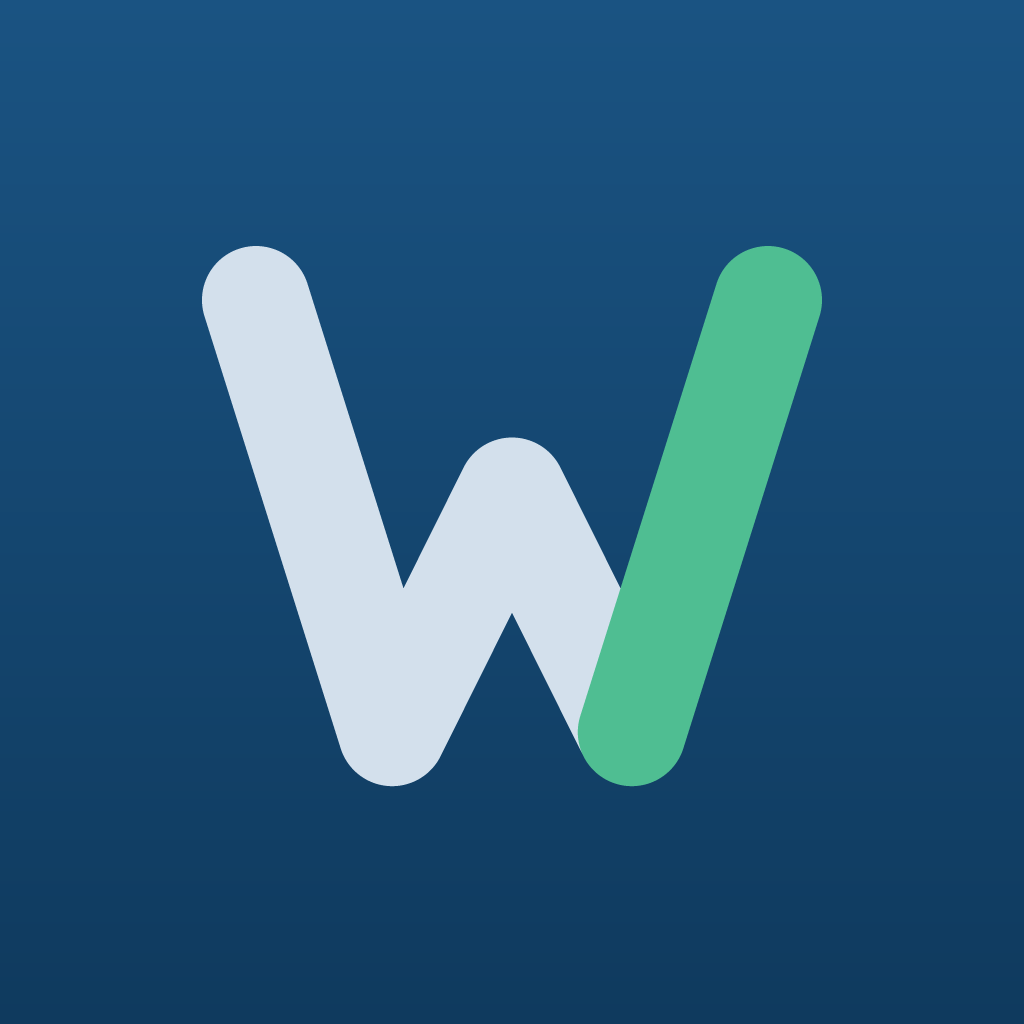
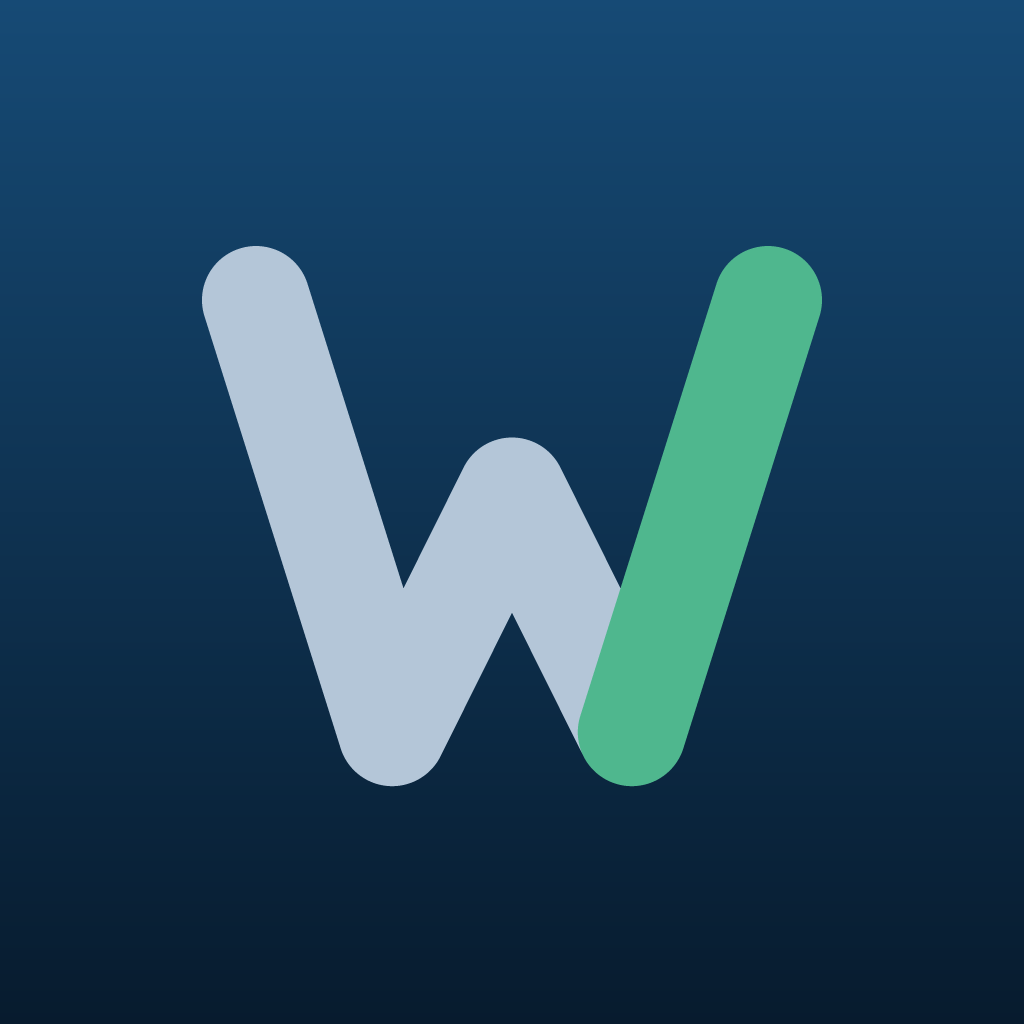
アプリの色をMitsubaトークン正本v3に合わせる
なぜ：地色をブランドUI/UXに寄せたいというCEO要望。合わせて確認したところ、
骨子が本日v3に改訂され、ブランド紺が #14456E→#0E3252、緑が #1F7A5A→#1A6B50
に深化していた。ここだけ旧色のまま残すと、他のMitsuba成果物と別物になる。

- 明暗2つの:rootブロックを正本v3の値に差し替え。値は正本からのコピーで、
  ここでは独自調整しない（正本が動いたらこの2ブロックだけ直す）
- 主要ボタンとタブの選択状態がブランド紺に（旧値は #111827 のほぼ黒で、
  ブランド色がどこにも出ていなかった）。正本の「紺＝構造」の役割どおり
- 補助文字 --soft が地に対し約3.2:1しかなく本文基準4.5を割っていたため、
  正本の補助色に統一。案Bの静けさは色でなく文字の大小で保つ
- 意味の色を正本へ：チェックの色＝ブランド緑、待ち＝琥珀、Task＝青、
  局面＝スレート（紫は正本の palette に無いため）。土日・危険・注意も同様
- 上部バーは紺のグラデーション（正本 --hdr-a/--hdr-b）に。明暗で同じ
- アイコン・起動画面・ステータスバーも v3 の紺へ。線は地が深くなった分だけ
  落とし、CEO指示の「約7:1」を維持（#D3E0EC→#B4C6D8）

表示層のみ。データ・同期・PII境界・AI送信境界は無変更。テスト4本全緑・SW v46。
角丸（正本は8/6/6で丸ピル廃止）は別途。

diff --git a/index.html b/index.html
@@ -4,7 +4,7 @@
 <meta charset="UTF-8">
 <meta http-equiv="Content-Security-Policy" content="default-src 'self'; script-src 'self' 'unsafe-inline' https://www.gstatic.com; style-src 'self' 'unsafe-inline'; img-src 'self' data: blob:; font-src 'self'; connect-src 'self' https://*.googleapis.com https://*.firebaseapp.com https://wardbook-ai.naganomitsutoshi.workers.dev; object-src 'none'; base-uri 'self'; form-action 'self'; manifest-src 'self'; worker-src 'self'">
 <meta name="viewport" content="width=device-width, initial-scale=1.0, viewport-fit=cover">
-<meta name="theme-color" content="#14456e">
+<meta name="theme-color" content="#0e3252">
 <meta name="apple-mobile-web-app-capable" content="yes">
 <meta name="apple-mobile-web-app-status-bar-style" content="default">
 <meta name="apple-mobile-web-app-title" content="Wardbook">
@@ -48,70 +48,80 @@
 .learnrpg .badge{background:#13233f;border:1px solid #33507f;color:#bcd2f5}
 .learnrpg .ghostbtn,.learnrpg .smallbtn{background:#15243f;border:1px solid #33507f;color:#dbe7ff}
 .learnrpg select.input{background:#0f1c33;color:#eaf2ff;border-color:#33507f}
+  /* 色は Mitsuba トークン正本 v3 (5_開発部/設計/Mitsuba_UI骨子.md, CEO 2026-07-29)
+     を Wardbook の変数名に写したもの。値は正本からのコピーで、ここで独自に
+     調整しない。正本が動いたらこの2ブロックだけを差し替える。
+     ブランド紺は「面積を絞る」＝上部バー・主要ボタン・タブの選択状態だけに置き、
+     画面の大部分は中立のスレートで持つ (正本 §2 面積の原則)。 */
   :root{
     color-scheme:light;
-    --bg:#f5f6f8;
+    --bg:#f4f6f8;
     --card:#ffffff;
-    --panel:#eef1f4;
-    --line:#d7dce2;
-    --text:#17202a;
-    --muted:#5f6b78;
-    --soft:#8a95a3;
-    --accent:#111827;
-    --danger:#b91c1c;
-    --danger-soft:#fee2e2;
-    --ok:#166534;
-    --ok-soft:#dcfce7;
-    --badge:#fff7ed;
-    --badge-line:#fdba74;
+    --panel:#eef2f6;              /* 正本 --th-bg：一段沈んだ面 */
+    --line:#d7dee6;
+    --text:#1f2933;               /* 正本 --ink */
+    --muted:#5b6875;
+    --soft:#5b6875;               /* 正本に --muted より薄い段はない＝同値 */
+    --accent:#0e3252;             /* 正本 --fill-brand：主要ボタン・選択タブだけ */
+    --danger:#c0392b;
+    --danger-soft:#fdecec;
+    --ok:#1a6b50;                 /* 正本 --ok＝ブランド緑（完了・正常＝現在地） */
+    --ok-soft:#e5f0ea;
+    --badge:#fdf6e3;              /* 正本 --warn-bg */
+    --badge-line:#b7791f;         /* 正本 --warn-line */
     --btn:#ffffff;
     --on-accent:#fff;
-    --bar:rgba(245,246,248,.96);
-    /* 画面上部だけ Mitsuba ネイビー (CEO 2026-07-29). 下の操作バー (--bar) は
-       主要ボタンが載るので中立のまま＝ブランド色は面積を絞る (UI骨子 §2). */
-    --topbar:#14456e;
+    --bar:rgba(244,246,248,.96);
+    /* 画面上部だけブランド紺のグラデーション (正本 --hdr-a / --hdr-b)。下の
+       操作バー (--bar) は主要ボタンが載るので中立のまま。 */
+    --hdr-a:#081f33;
+    --hdr-b:#0e3252;
     --topbar-ink:#eaf1f8;
     --topbar-line:rgba(255,255,255,.16);
     --topbar-btn:rgba(255,255,255,.12);
     --topbar-btn-line:rgba(255,255,255,.30);
     --drop:rgba(17,24,39,.14);
-    --shadow:0 1px 2px rgba(0,0,0,.06);
-    --weekend-sun:#b44a4a;
-    --weekend-sat:#4f6fb8;
-    --sec-phase:#6d28d9;
-    --sec-task:#1d4ed8;
-    --sec-pending:#b45309;
+    --shadow:0 1px 3px rgba(20,30,45,.10),0 1px 2px rgba(20,30,45,.06);
+    --weekend-sun:#c0392b;        /* 正本 --danger */
+    --weekend-sat:#2b6cb0;        /* 正本 --info */
+    --sec-phase:#33475b;          /* 正本 --ink-2：局面は信号でなく構造 */
+    --sec-task:#2b6cb0;           /* 正本 --info */
+    --sec-pending:#8a5b12;        /* 正本 --warn */
     --scrim:rgba(15,23,42,.45);
   }
   :root[data-theme="dark"]{
     color-scheme:dark;
-    --bg:#13161a;
-    --card:#1b2128;
-    --panel:#232b33;
-    --line:#354150;
-    --text:#edf2f7;
-    --muted:#b2bcc7;
-    --soft:#8e99a6;
-    --accent:#e5e7eb;
-    --danger-soft:#3a1f23;
-    --ok-soft:#173327;
-    --badge:#342516;
-    --badge-line:#855f38;
-    --btn:#232b33;
-    --on-accent:#13161a;
-    --bar:rgba(19,22,26,.96);
-    --topbar:#0b2c4a;
+    --bg:#0f161e;
+    --card:#18212b;
+    --panel:#1e2a36;              /* 正本 --th-bg（暗所） */
+    --line:#2e3c4b;
+    --text:#e8edf2;               /* 正本 --ink（暗所） */
+    --muted:#9db0c0;
+    --soft:#9db0c0;
+    --accent:#2c6faf;             /* 正本 --fill-brand（暗所）：白文字 5.25 */
+    --danger:#f08a80;
+    --danger-soft:#3a1f1c;
+    --ok:#4fb78e;                 /* 正本 --ok（暗所） */
+    --ok-soft:#0f2a22;
+    --badge:#33290f;              /* 正本 --warn-bg（暗所） */
+    --badge-line:#e3b24c;
+    --btn:#1e2a36;
+    --on-accent:#fff;
+    --bar:rgba(15,22,30,.96);
+    /* 上部バーは明暗どちらでも同じ紺グラデーション（正本§v3「ヘッダーは紺を維持」） */
+    --hdr-a:#081f33;
+    --hdr-b:#0e3252;
     --topbar-ink:#dbe7f2;
     --topbar-line:rgba(255,255,255,.12);
     --topbar-btn:rgba(255,255,255,.10);
     --topbar-btn-line:rgba(255,255,255,.26);
     --drop:rgba(237,242,247,.22);
-    --shadow:0 1px 2px rgba(0,0,0,.28);
-    --weekend-sun:#f09a9a;
-    --weekend-sat:#9db8ff;
-    --sec-phase:#c4b5fd;
-    --sec-task:#93c5fd;
-    --sec-pending:#fbbf6e;
+    --shadow:0 1px 3px rgba(0,0,0,.45);
+    --weekend-sun:#f08a80;        /* 正本 --danger（暗所） */
+    --weekend-sat:#7fb0d9;        /* 正本 --info（暗所） */
+    --sec-phase:#b7c6d4;          /* 正本 --ink-2（暗所） */
+    --sec-task:#7fb0d9;
+    --sec-pending:#e3b24c;
     --scrim:rgba(0,0,0,.6);
   }
   *{box-sizing:border-box}
@@ -127,7 +137,7 @@
   .app{max-width:720px;margin:0 auto;padding:0 0 88px}
   .topbar{
     position:sticky;top:0;z-index:20;
-    background:var(--topbar);
+    background:linear-gradient(90deg,var(--hdr-a),var(--hdr-b));
     color:var(--topbar-ink);
     border-bottom:1px solid var(--topbar-line);
     padding:10px 14px calc(10px + env(safe-area-inset-top));
@@ -3553,7 +3563,7 @@ function applyTheme(){
   var meta = typeof document !== "undefined" && document.querySelector ? document.querySelector('meta[name="theme-color"]') : null;
   // Status bar follows the topbar, not the page background (CEO 2026-07-29),
   // so the brand navy runs unbroken from the system bar into the app header.
-  if (meta && meta.setAttribute) meta.setAttribute("content", theme === "dark" ? "#0b2c4a" : "#14456e");
+  if (meta && meta.setAttribute) meta.setAttribute("content", "#0e3252");
 }
 
 function setThemeMode(mode){

diff --git a/tests/verify-wardbook.js b/tests/verify-wardbook.js
@@ -1573,10 +1573,10 @@ assert.strictEqual(normalized.seeds[0].createdOn, "2026-07-08");
       "no icon declared for purpose " + purpose
     );
   }
-  assert.strictEqual(manifest.theme_color, "#14456e", "theme color must stay Mitsuba navy");
+  assert.strictEqual(manifest.theme_color, "#0e3252", "theme color must stay Mitsuba navy");
   // The launch screen paints background_color before anything renders. White
   // there flashed against the navy icon (CEO 2026-07-29).
-  assert.strictEqual(manifest.background_color, "#14456e", "launch background must stay Mitsuba navy");
+  assert.strictEqual(manifest.background_color, "#0e3252", "launch background must stay Mitsuba navy");
   // The splash blows the icon up to about a third of the screen, so anything
   // smaller than 1024 shows its pixels on a modern phone.
   for (const purpose of ["any", "maskable"]) {

diff --git a/tests/smoke-render.js b/tests/smoke-render.js
@@ -834,9 +834,9 @@ if (documentElement["data-theme"] !== "dark") fail("dark theme attribute not app
 // The system bar must stay Mitsuba navy so it runs unbroken into the app
 // header (CEO 2026-07-29). If someone re-points it at the page background the
 // status bar goes grey again and the seam comes back.
-if (themeMeta.content !== "#0b2c4a") fail("dark status bar must be Mitsuba deep navy");
+if (themeMeta.content !== "#0e3252") fail("dark status bar must be Mitsuba navy");
 vm.runInContext("setThemeMode('light')", sandbox);
-if (themeMeta.content !== "#14456e") fail("light status bar must be Mitsuba navy");
+if (themeMeta.content !== "#0e3252") fail("light status bar must be Mitsuba navy");
 vm.runInContext("setThemeMode('os')", sandbox);
 if (vm.runInContext("SYNC_RT.fb", sandbox) !== null) fail("sync import happened without config");
 

diff --git a/sw.js b/sw.js
@@ -1,4 +1,4 @@
-const CACHE = "wardbook-v45";
+const CACHE = "wardbook-v46";
 const ASSETS = [
   "./",
   "./index.html",
